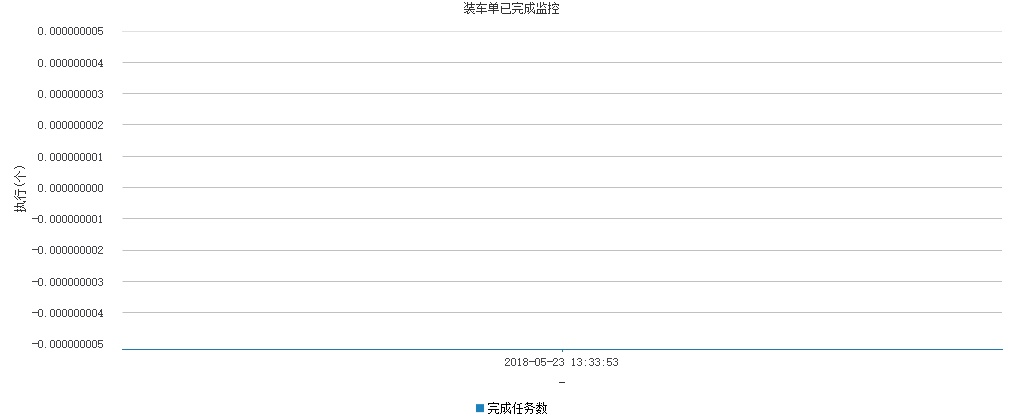
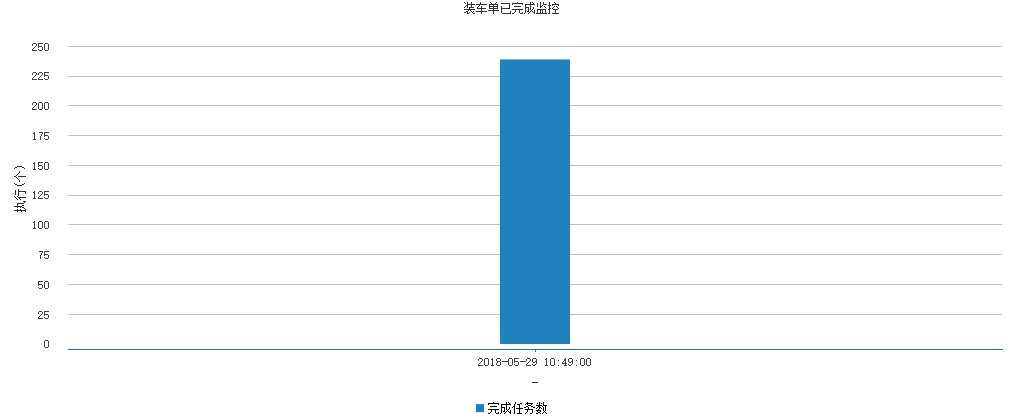
增加了X轴排序

diff --git a/src/com/yc/view/service/ChartjsonInitImp.java b/src/com/yc/view/service/ChartjsonInitImp.java
@@ -110,7 +110,7 @@ public class ChartjsonInitImp implements ChartjsonInit{
     	List<String> categoriesS = new ArrayList<String>();
     	List<String> xS = new ArrayList<String>();
     	Map<String,List<Double>> yM = new HashMap<String,List<Double>>();//骏铃南线:[95,24,22]
-    	list = chartJdbcInit.dataNo0QueryForList("SELECT CATEGORIES,X,QUANTITY FROM LEFT_TOP_Y ORDER BY LINE ASC");
+    	list = chartJdbcInit.dataNo0QueryForList("SELECT CATEGORIES,X,QUANTITY FROM LEFT_TOP_Y ORDER BY LINE,X ASC");
     	iMes = list.iterator();
     	
     	List<Double> l = null;
